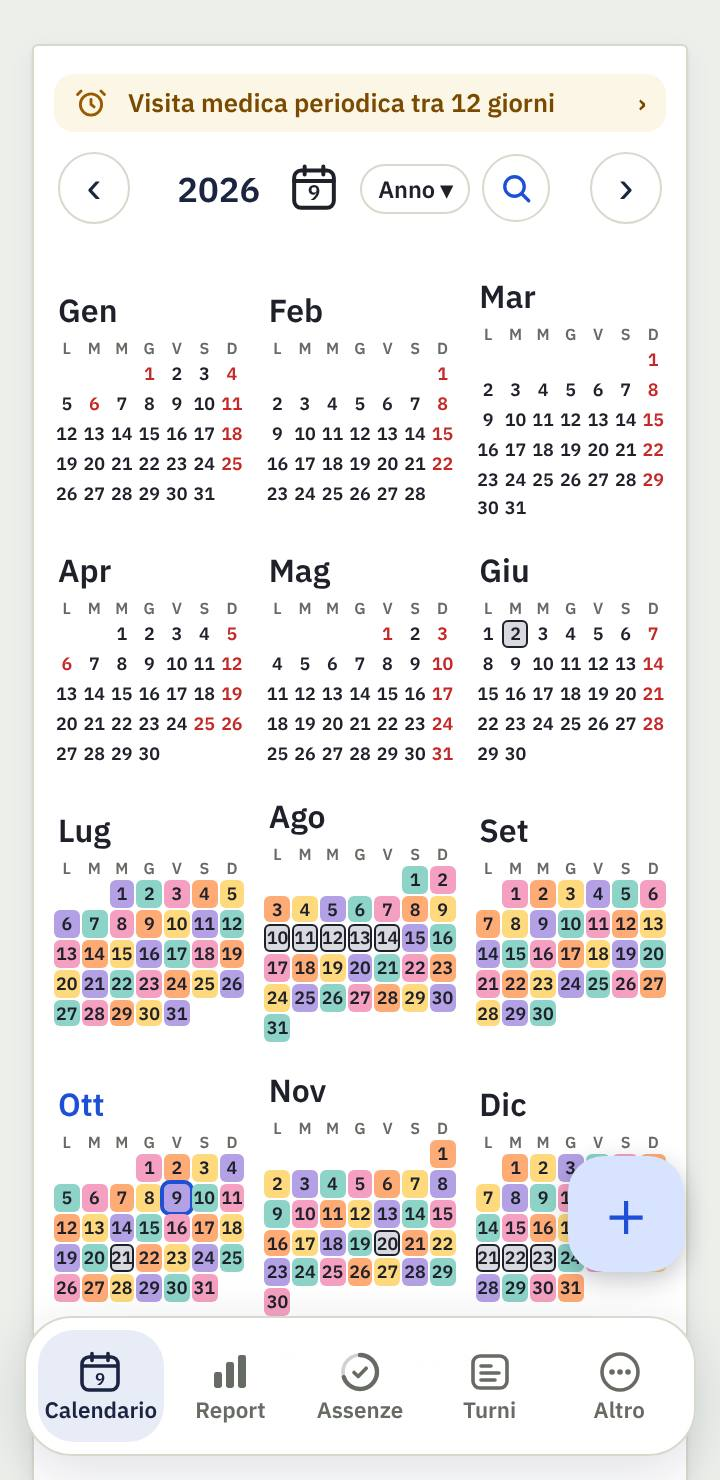
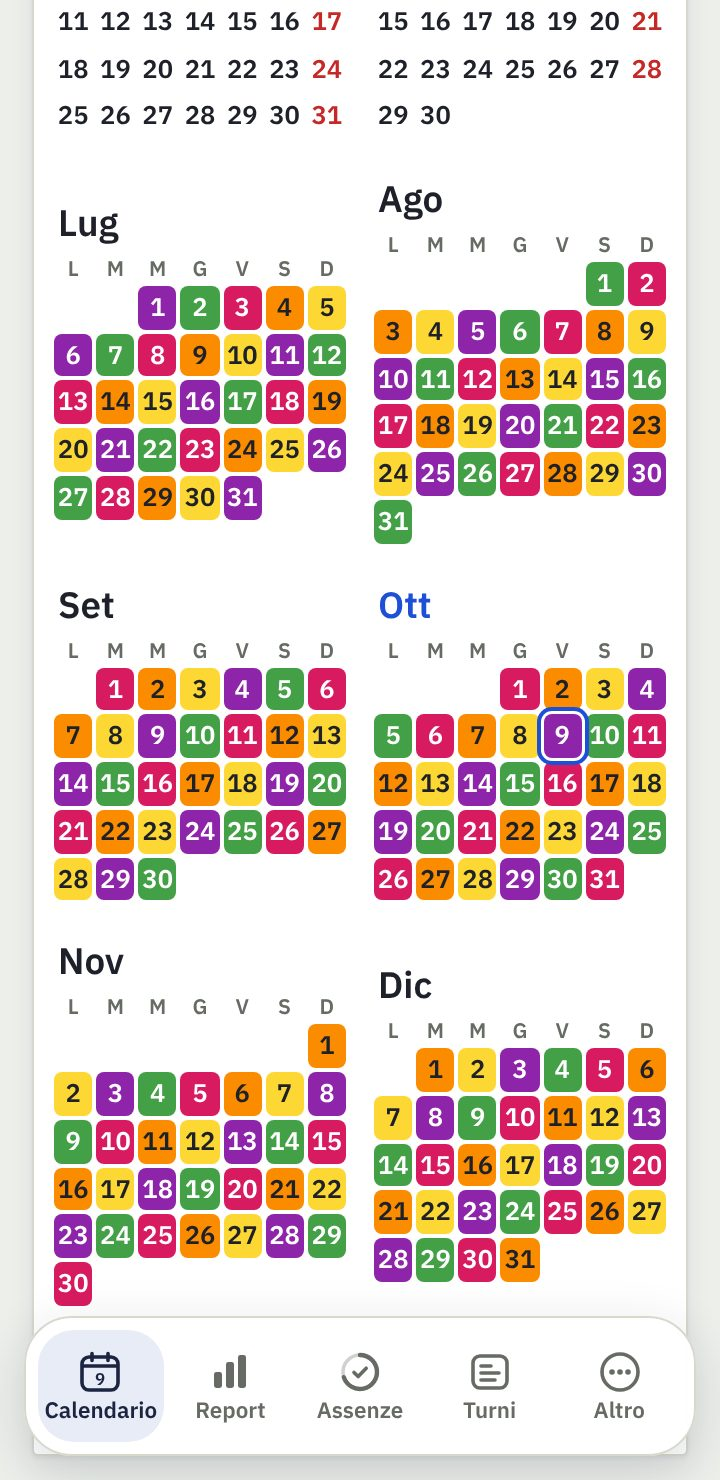
Guida Turni: aggiornata alla 3.8.42 (Anno ingrandibile)
Claude-Session: https://claude.ai/code/session_01PSeREU5gDDB7bRrUAU7GkJ

diff --git a/guida-turni.html b/guida-turni.html
@@ -23,7 +23,7 @@ a{color:#2E4A8F}
 @media(max-width:600px){.sez{grid-template-columns:1fr}.sez img{width:min(240px,70vw);margin:4px auto 0}.tab td:first-child{white-space:normal}}
 </style></head><body>
 <h1>Guida a Turni & Accessorio PS</h1>
-<p class="agg">Come si usa l'app, passo per passo · aggiornata alla versione 3.8.41</p>
+<p class="agg">Come si usa l'app, passo per passo · aggiornata alla versione 3.8.42</p>
 <nav><a href="#inizio">Primi passi</a><a href="#calendario">Calendario</a><a href="#cerca">Cerca o chiedi</a><a href="#voce">Detta a voce</a><a href="#giorno">Il giorno e le indennità</a><a href="#sequenza">Turni</a><a href="#report">Report</a><a href="#assenze">Assenze</a><a href="#altro">Altro</a><a href="#promemoria">Promemoria e widget</a><a href="#utilita">Utilità</a><a href="#link">Link utili</a><a href="#backup">Backup</a><a href="#domande">Domande</a></nav>
 
 <h2 id="inizio">1. Primi passi</h2>
@@ -47,7 +47,7 @@ a{color:#2E4A8F}
 <li><b>Scorri col dito</b> a destra o a sinistra per cambiare mese (o pagina del Diario, a seconda della vista). Il pulsante con il numero di oggi in alto riporta subito a <b>oggi</b>.</li>
 <li>Sotto il giorno selezionato vedi anche il <b>nome della festività</b> (Natale, Pasqua, 2 giugno…).</li>
 <li>Se cambi o cancelli un turno per sbaglio, tocca <b>Annulla</b> nell'avviso che compare in basso: il calendario torna com'era.</li>
-<li>La vista <b>Anno</b> (da <b>Mese ▾ → Anno</b>) mostra i 12 mesi colorati per turno, con le <b>ferie e le assenze</b> segnate da un bordino: comoda per programmare. Tocca un mese per aprirlo.</li>
+<li>La vista <b>Anno</b> (da <b>Mese ▾ → Anno</b>) mostra i 12 mesi colorati per turno, con le <b>ferie e le assenze</b> segnate da un bordino: comoda per programmare. Tocca un mese per aprirlo. Con i pulsanti <b>−</b> e <b>＋</b> in cima (o allargando e stringendo due dita) ingrandisci i mesi: tutto l'anno, mesi grandi o un mese per riga; l'app ricorda la scelta.</li>
 <li>Con il pulsantino <b>Mese ▾</b> in alto scegli la vista: <b>Diario</b> (la settimana su due pagine, con la pagina di ogni giorno), <b>Mese</b> o <b>Anno</b>. L'app ricorda l'ultima scelta.</li>
 <li>Se cambi a mano gli orari di un giorno, la casella prende il colore del tuo turno di quella fascia (es. il colore del tuo «Mattino»).</li>
 <li><b>Evento</b> aggiunge visite, corsi, appuntamenti, anche ripetuti, con promemoria. Tocca un'ora nella giornata per scegliere l'orario. In <b>Altre opzioni</b> trovi colore, luogo, note e <b>Suona anche in silenzioso</b>: 10 secondi di suono e vibrazione, anche con il telefono in silenzioso.</li>
@@ -57,7 +57,7 @@ a{color:#2E4A8F}
 </div><img src="turni/guida/calendario.jpg" alt="Calendario del mese" loading="lazy"></div>
 <div class="sez"><div><p><b>Vista Diario</b> (da <b>Mese ▾ → Diario</b>): la settimana come un'agenda di carta, su due pagine con la spirale. A sinistra da lunedì a giovedì, a destra venerdì, sabato e domenica. Per ogni giorno: turno con orario, rientro, straordinario, servizio svolto, le <b>indennità</b> come icone piccole, appuntamenti con l'ora, la prima riga delle note di servizio, veicolo e scadenze. <b>Scorri col dito</b> (o usa ‹ ›) per girare pagina; <b>tocca un giorno</b> per aprire la sua pagina. Sotto il libro trovi il numero della settimana con il <b>totale delle ore</b> e dello straordinario. Con il tema scuro la carta diventa blu notte.</p></div><img src="turni/guida/diario.jpg" alt="Vista Diario" loading="lazy"></div>
 <div class="sez"><div><p><b>Pagina del giorno</b> (nel Diario, tocca un giorno): come un'agenda giornaliera. In alto turno con orario (toccalo per modificarlo), rientro, servizio svolto, indennità con il loro nome ed eventi. Sotto ci sono le <b>Note di servizio</b>: scrivi direttamente sulle righe com'è andato il servizio, quanto vuoi, oppure tocca il <b>microfono</b> e dettalo a voce; si salvano da sole mentre scrivi, entrano nel backup, compaiono in Altro → Note e le trova la lente. Con <b>‹ ›</b> o scorrendo col dito passi al giorno prima o dopo; <b>‹ Settimana</b> riporta alla settimana. Col telefono in orizzontale o sul tablet le pagine sono due affiancate, un giorno a sinistra e uno a destra.</p></div><img src="turni/guida/pagina-giorno.jpg" alt="Pagina del giorno con le note di servizio" loading="lazy"></div>
-<div class="sez"><div><p><b>Vista Anno</b>: tutto l'anno in una schermata, con i turni a colori e le ferie in evidenza.</p></div><img src="turni/guida/anno.jpg" alt="Vista Anno" loading="lazy"></div>
+<div class="sez"><div><p><b>Vista Anno</b>: tutto l'anno in una schermata, con i turni a colori e le ferie in evidenza. Con <b>−</b> e <b>＋</b> in cima (o col pizzico con due dita) passi da tutto l'anno a mesi più grandi, fino a un mese per riga.</p></div><img src="turni/guida/anno.jpg" alt="Vista Anno" loading="lazy"></div>
 <h3 id="cerca">Cerca o chiedi (la lente)</h3>
 <div class="sez"><div>
 <p>Tocca la <b>lente 🔍</b> nella barra del mese. Puoi:</p>
